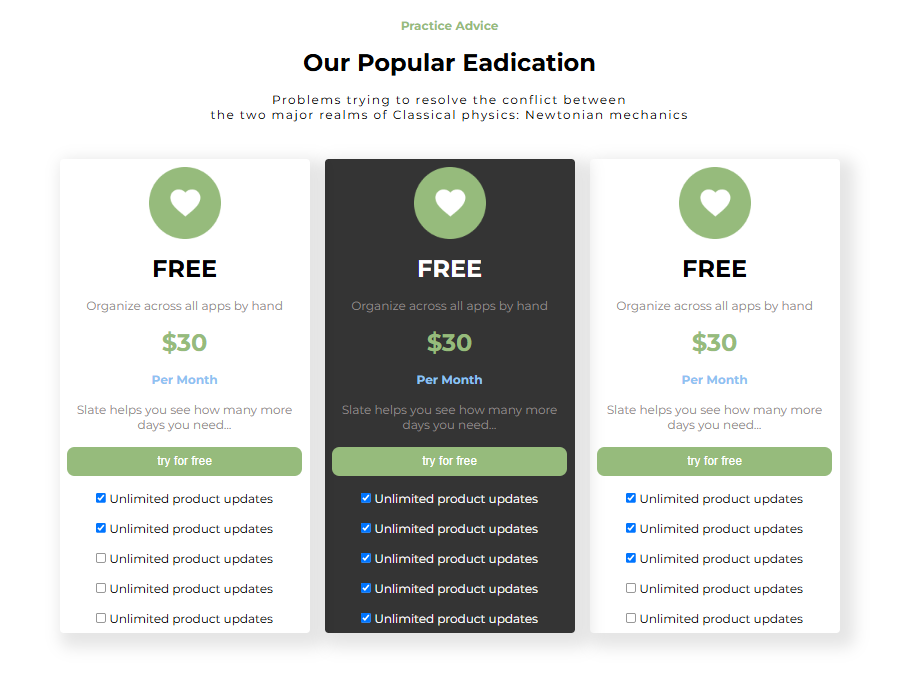
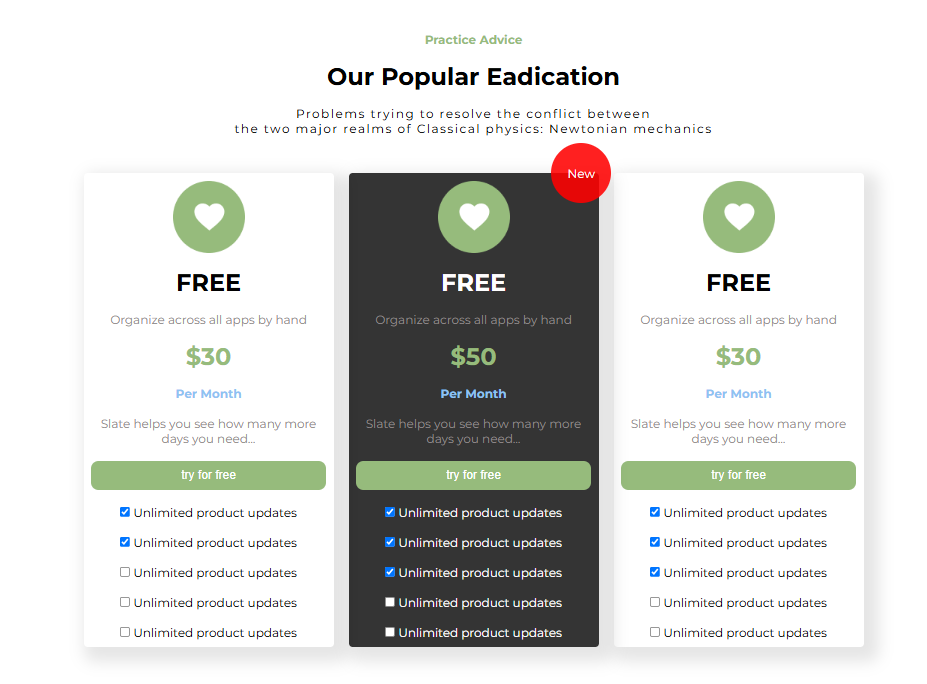
Subscription card New Feture Add

Changed region(s): [[0.0622, 0.0312, 0.9333, 0.9673]]

diff --git a/index.html b/index.html
@@ -87,11 +87,11 @@
                 </div>
 
             </div>
-            <div class=" subcription_card  d-flex subcription_card_active_color">
+            <div class=" subcription_card new_subscription  d-flex subcription_card_active_color">
                 <img src="./images/image.png" alt="">
                 <h2>FREE</h2>
                 <p>Organize across all apps by hand</p>
-                <h3>$30</h3>
+                <h3>$50</h3>
                 <h6>Per Month</h6>
                 <p>Slate helps you see how many more days you need...</p>
                 <button class="primary_button">try for free</button>

diff --git a/style/style.css b/style/style.css
@@ -225,3 +225,20 @@ li, a{
     background-color: rgba(0, 0, 0, 0.797);
     color: #fff;
 }
+.new_subscription{
+    position: relative;
+}
+
+.new_subscription::before {
+    content: "New";
+    position: absolute;
+    top: -40px;
+    right: -17px;
+    width: 80px;
+    height: 80px;
+    background-color: rgba(255, 0, 0, 0.875);
+    display: flex;
+    justify-content: center;
+    align-items: center;
+    border-radius: 50%;
+}
